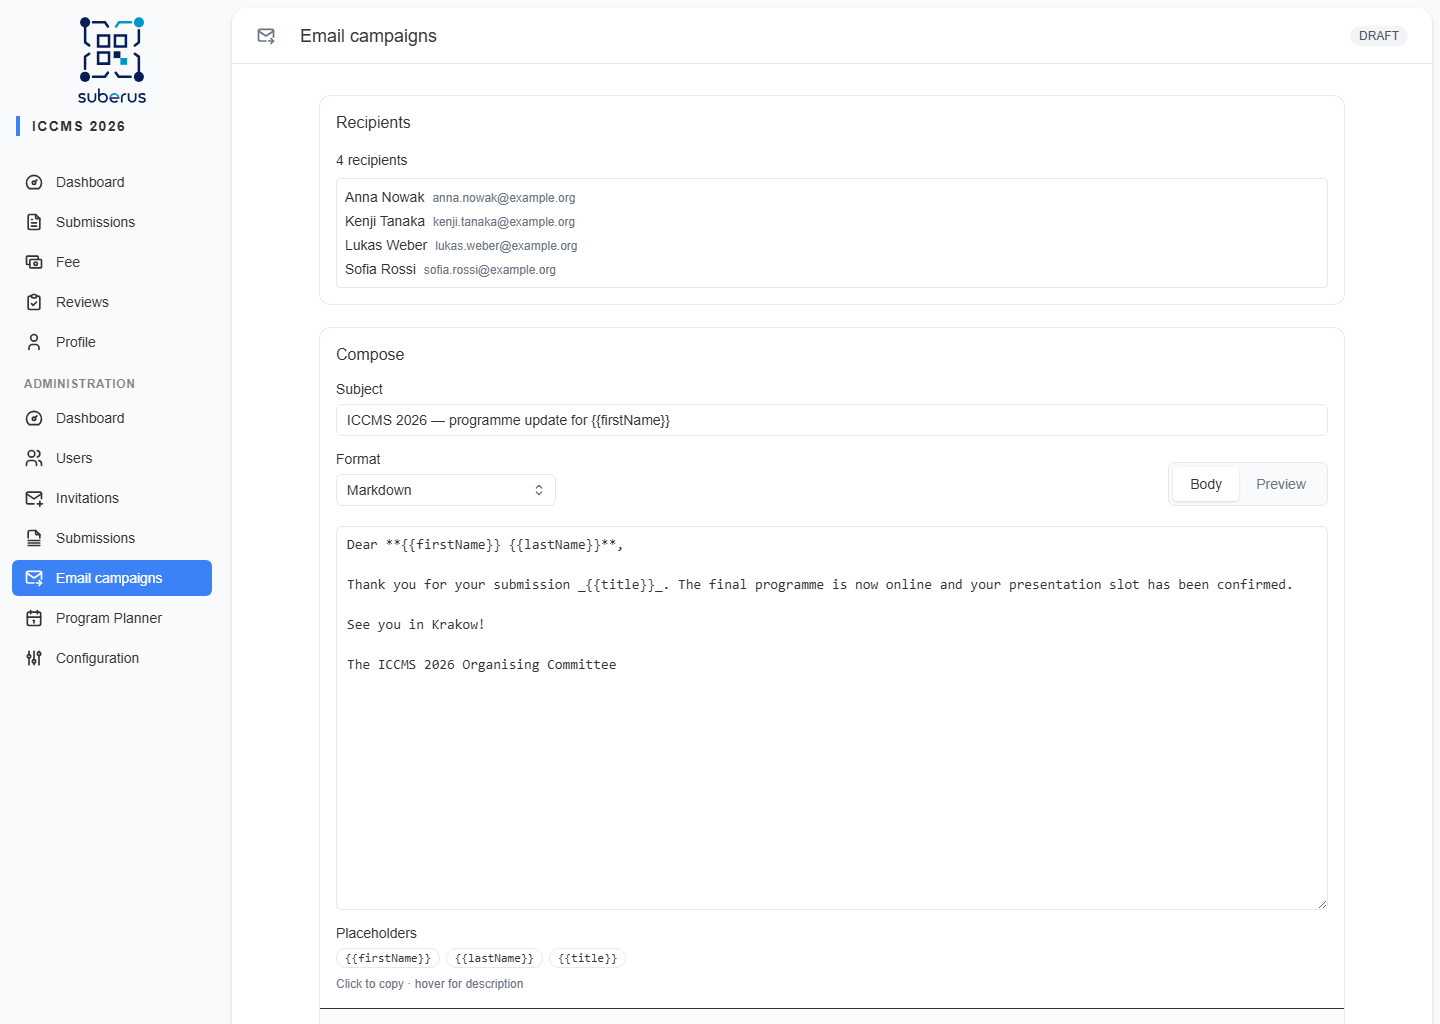
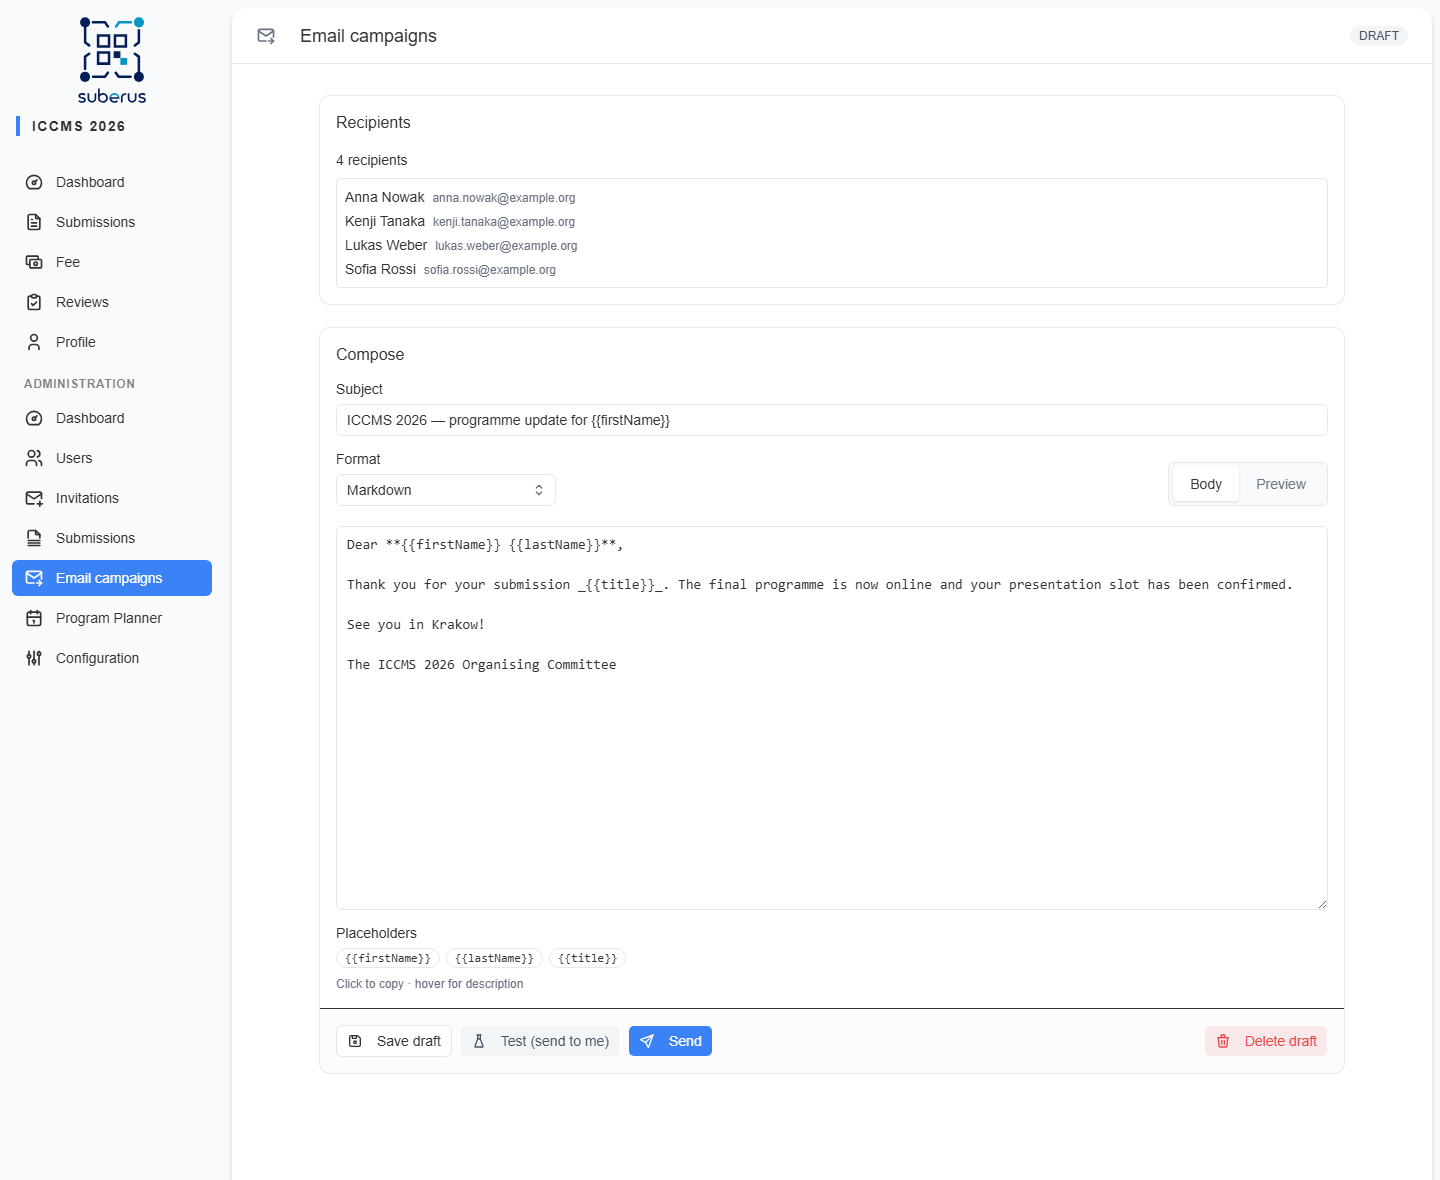
docs(bulk-email): recapture composer shot to include the action buttons
Use a fixed clip instead of the leaf-bottom auto-trim so Save/Test/Send/Delete
are in frame.

diff --git a/e2e/screenshots/docs-screenshots.spec.ts b/e2e/screenshots/docs-screenshots.spec.ts
@@ -603,7 +603,16 @@ test.describe("docs screenshots", () => {
 			},
 		});
 		await page.goto(`/admin/bulk-email/${campaign.id}`);
-		await shot(page, "33-managing-email-campaigns.png", { height: 1700 });
+		// Fixed clip (not the auto-trim path) so the footer action buttons are
+		// included — the leaf-bottom heuristic stops at the placeholder chips.
+		await page.setViewportSize({ width: 1440, height: 1240 });
+		await page.waitForLoadState("networkidle", { timeout: 10000 }).catch(() => {});
+		await page.waitForTimeout(600);
+		await page.screenshot({
+			path: path.join(SHOTS_DIR, "33-managing-email-campaigns.png"),
+			clip: { x: 0, y: 0, width: 1440, height: 1180 },
+		});
+		await page.setViewportSize({ width: 1440, height: 900 });
 	});
 
 	// ---- Part 3: Program Planner --------------------------------------------------
